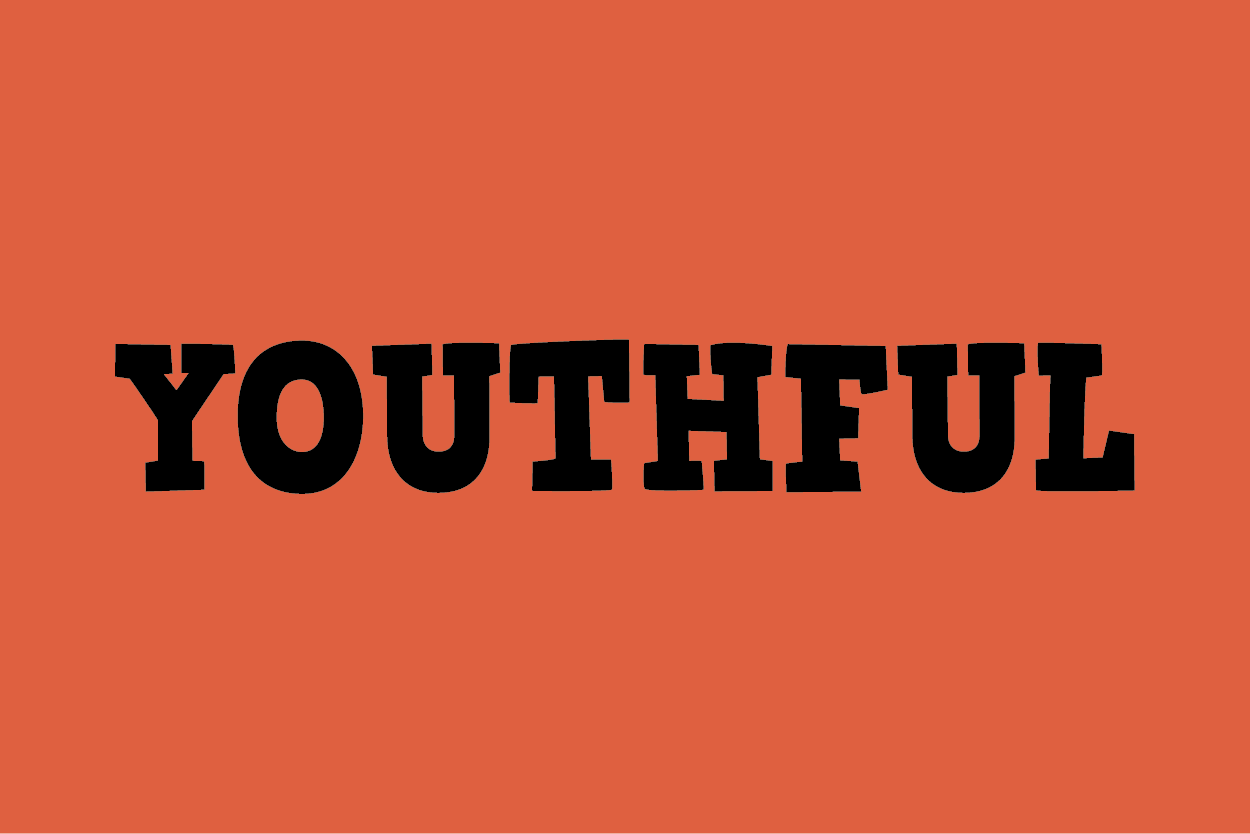
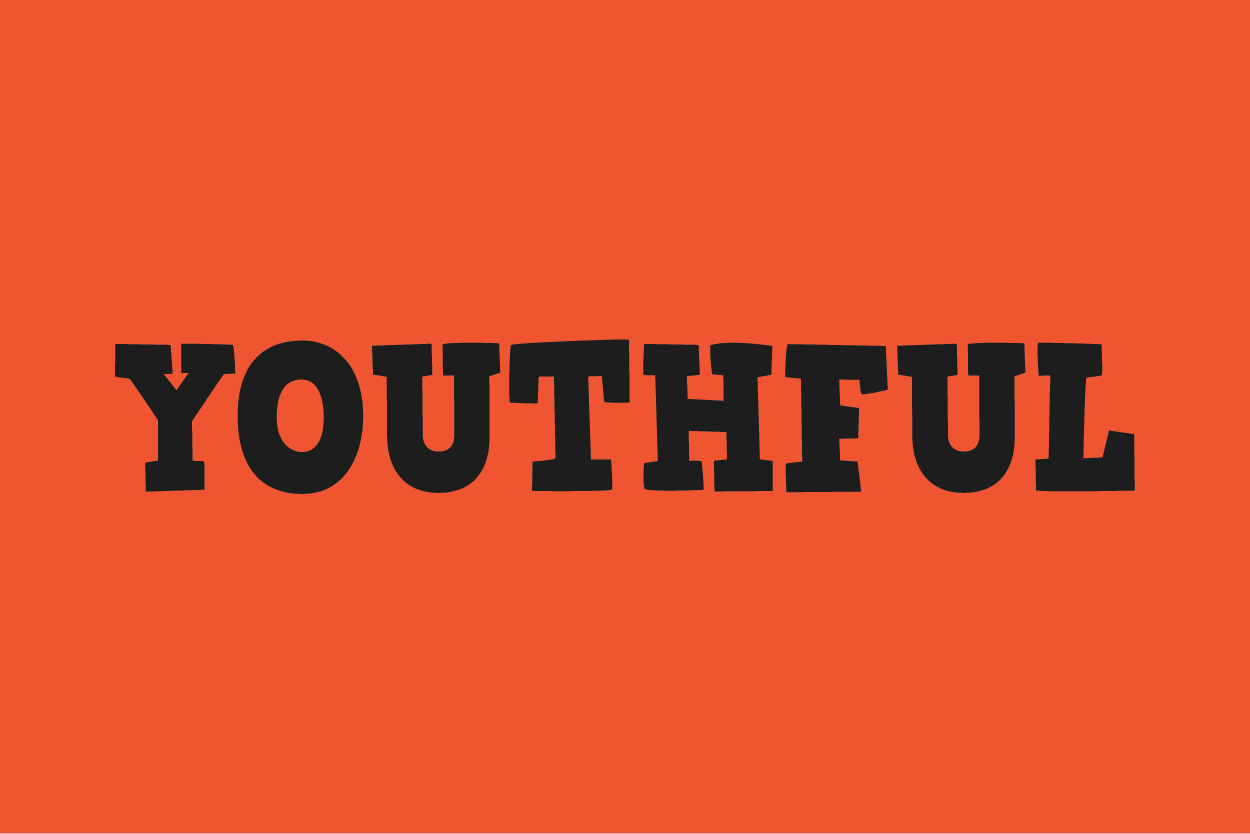
hi

Changed region(s): [[0.0936, 0.4053, 0.936, 0.5923]]

diff --git a/project5/color.html b/project5/color.html
@@ -4,17 +4,21 @@
     <meta charset="UTF-8">
     <meta http-equiv="X-UA-Compatible" content="IE=edge">
     <meta name="viewport" content="width=device-width, initial-scale=1.0">
+    <!--<link rel="stylesheet" href="projstyle.css">-->
     <title>SKETCH</title>
 </head>
 <body>
-<H1> SKETCH</H1>
-<H4>A DESIGNER'S TOOLBOX</H4>
-    <div class="navigation">
-        <div><a href="home.html">HOME</a></div>
-        <div><a href="type.html"></a>TYPE</div>
-        <div><a href="color.html"></a>COLOR</div>
-        <div><a href="inspo.html"></a>INSPO</div>
-    </div>
+    <H1> SKETCH</H1>
+    <H4>A DESIGNER'S TOOLBOX</H4>
+    <nav>
+        <div class="navigation">
+             <div><a href="home.html">HOME</a></div>
+             <div><a href="../project5/type.html">TYPE</a></div>
+             <div><a href="../project5/color.html">COLOR</a></div>
+             <div><a href="../project5/inspo.html">INSPO</a></div>
+         </div>
+      </nav>
+
 <img src="../images/projimages/color/colorblur.jpg" alt="color blur">
 <h1>COLOR</h1>
 <p>The biggest power behind color is their ability to evoke emotions and make people feel things, but the color meaning in graphic design can seem confusing at first as colors often have different interpretations. Designers to not chose design aspects such as color by what simply looks “pretty.” Much thought goes into each decision as they as themselves a few questions. What will evoke these emotions? How can I get the viewer to see the bigger picture? Which shades will result in the greatest contrast?</p>

diff --git a/project5/home.html b/project5/home.html
@@ -4,21 +4,26 @@
     <meta charset="UTF-8">
     <meta http-equiv="X-UA-Compatible" content="IE=edge">
     <meta name="viewport" content="width=device-width, initial-scale=1.0">
+ <!--<link rel="stylesheet" href="projstyle.css">-->
     <title>SKETCH</title>
 </head>
 <body>
-    <H1> SKETCH</H1>
-    <H4>A DESIGNER'S TOOLBOX</H4>
+    <H1 class="center"> SKETCH</H1>
+    <H4 class="center">A DESIGNER'S TOOLBOX</H4>
+
+    <nav>
         <div class="navigation">
-            <div><a href="home.html">HOME</a></div>
-            <div><a href="type.html"></a>TYPE</div>
-            <div><a href="color.html"></a>COLOR</div>
-            <div><a href="inspo.html"></a>INSPO</div>
-        </div>
-
+             <div><a href="home.html">HOME</a></div>
+             <div><a href="../project5/type.html">TYPE</a></div>
+             <div><a href="../project5/color.html">COLOR</a></div>
+             <div><a href="../project5/inspo.html">INSPO</a></div>
+         </div>
+      </nav>
+        
     <img src="../images/projimages/home/welcome.png" alt="welcome" width="1000">
+    <P class="center"><strong>"WELCOME"</strong>"</P>
 
-    <h1>DESIGN IS... <br> INTELLIGENCE MADE VISIBILE</h1>
+    <h1>DESIGN IS... <br> INTELLIGENCE <br> MADE VISIBILE</h1> <br>
     <p>Check out the latest graphic design industry news, along with boundary-pushing work and new campaigns. This includes tips and tricks regarding typography, color, and branding.</p>
 
     <h2><a href="type.html">TYPE!</a></h2>

diff --git a/project5/type.html b/project5/type.html
@@ -4,17 +4,21 @@
     <meta charset="UTF-8">
     <meta http-equiv="X-UA-Compatible" content="IE=edge">
     <meta name="viewport" content="width=device-width, initial-scale=1.0">
+    <!--<link rel="stylesheet" href="projstyle.css">-->
     <title>Type</title>
 </head>
 <body>
     <H1> SKETCH</H1>
     <H4>A DESIGNER'S TOOLBOX</H4>
-    <div class="navigation">
-        <div><a href="home.html">HOME</a></div>
-        <div><a href="type.html"></a>TYPE</div>
-        <div><a href="color.html"></a>COLOR</div>
-        <div><a href="inspo.html"></a>INSPO</div>
-    </div>
+
+    <nav>
+        <div class="navigation">
+             <div><a href="home.html">HOME</a></div>
+             <div><a href="../project5/type.html">TYPE</a></div>
+             <div><a href="../project5/color.html">COLOR</a></div>
+             <div><a href="../project5/inspo.html">INSPO</a></div>
+         </div>
+      </nav>
 
     <img src="../images/projimages/type/type.png" alt="type" width="1000">
     <p>The art of arranging letters and text in a way that makes the copy legible, clear, and visually appealing to the reader.

diff --git a/project5/inspo.html b/project5/inspo.html
@@ -4,17 +4,22 @@
     <meta charset="UTF-8">
     <meta http-equiv="X-UA-Compatible" content="IE=edge">
     <meta name="viewport" content="width=device-width, initial-scale=1.0">
+    <!--<link rel="stylesheet" href="projstyle.css">-->
     <title>Inspo</title>
 </head>
 <body>
     <H1> SKETCH</H1>
     <H4>A DESIGNER'S TOOLBOX</H4>
-    <div class="navigation">
-        <div><a href="home.html">HOME</a></div>
-        <div><a href="type.html"></a>TYPE</div>
-        <div><a href="color.html"></a>COLOR</div>
-        <div><a href="inspo.html"></a>INSPO</div>
-    </div>
+    <nav>
+        <div class="navigation">
+             <div><a href="home.html">HOME</a></div>
+             <div><a href="../project5/type.html">TYPE</a></div>
+             <div><a href="../project5/color.html">COLOR</a></div>
+             <div><a href="../project5/inspo.html">INSPO</a></div>
+         </div>
+      </nav>
+
+    
 <h2>I &hearts; Inspiration </h2>
 <p>Art by Me! <br>
 Visit my website: <a href="https://www.brettzkaplan.com/"> <br> Brett Z. Kaplan Design</a> </p>

diff --git a/project5/projstyle.css b/project5/projstyle.css
@@ -1,0 +1,19 @@
+body {
+    background-color: rgb(30, 30, 30);
+    color: white;
+    font-family: 'Tahoma';}
+
+h1 {color: rgb(255, 255, 255); 
+    font-size: 50pt;
+    margin-bottom: -20px;}
+
+.navigation {
+    display: flex;
+    margin-top: 10px;
+    justify-content:space-around;
+     margin-bottom:10px;}
+
+/* Home */
+.center {display: flex;
+    justify-content: center;}
+
